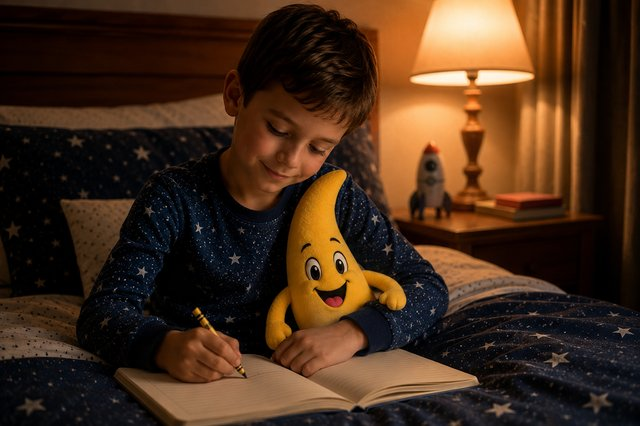
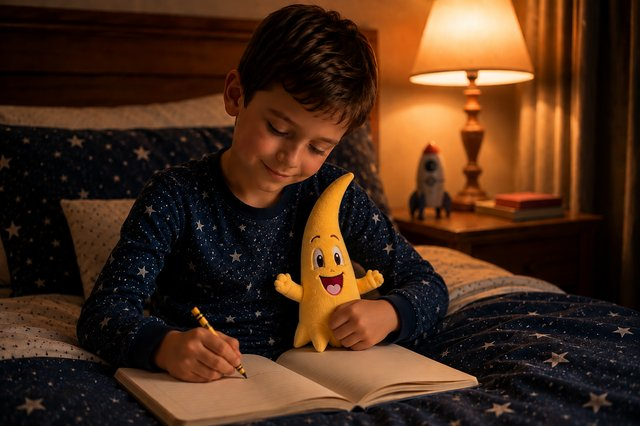
Swap in the updated boy+Ray hero image; point Bullyproof.Support sign-up (NETWORK_HOME_URL) to the real checkout/clarity-check page instead of the placeholder

diff --git a/app.js b/app.js
@@ -871,7 +871,7 @@ const NETWORK_MATCH_URL = "https://www.bullyproof.support/getmatched";
 // Confirmed by Mark: the direct signup page for a parent/guardian
 // ("hidden profile") account — skips the account-type choice screen
 // entirely, since every visitor arriving from this tool is a parent.
-const NETWORK_HOME_URL = "https://www.bullyproof.support/checkout/hidden-profile";
+const NETWORK_HOME_URL = "https://www.bullyproof.support/checkout/clarity-check";
 
 function playbookBoxImageUrl() {
   return `${window.location.origin}/assets/playbook-box.jpg`;
